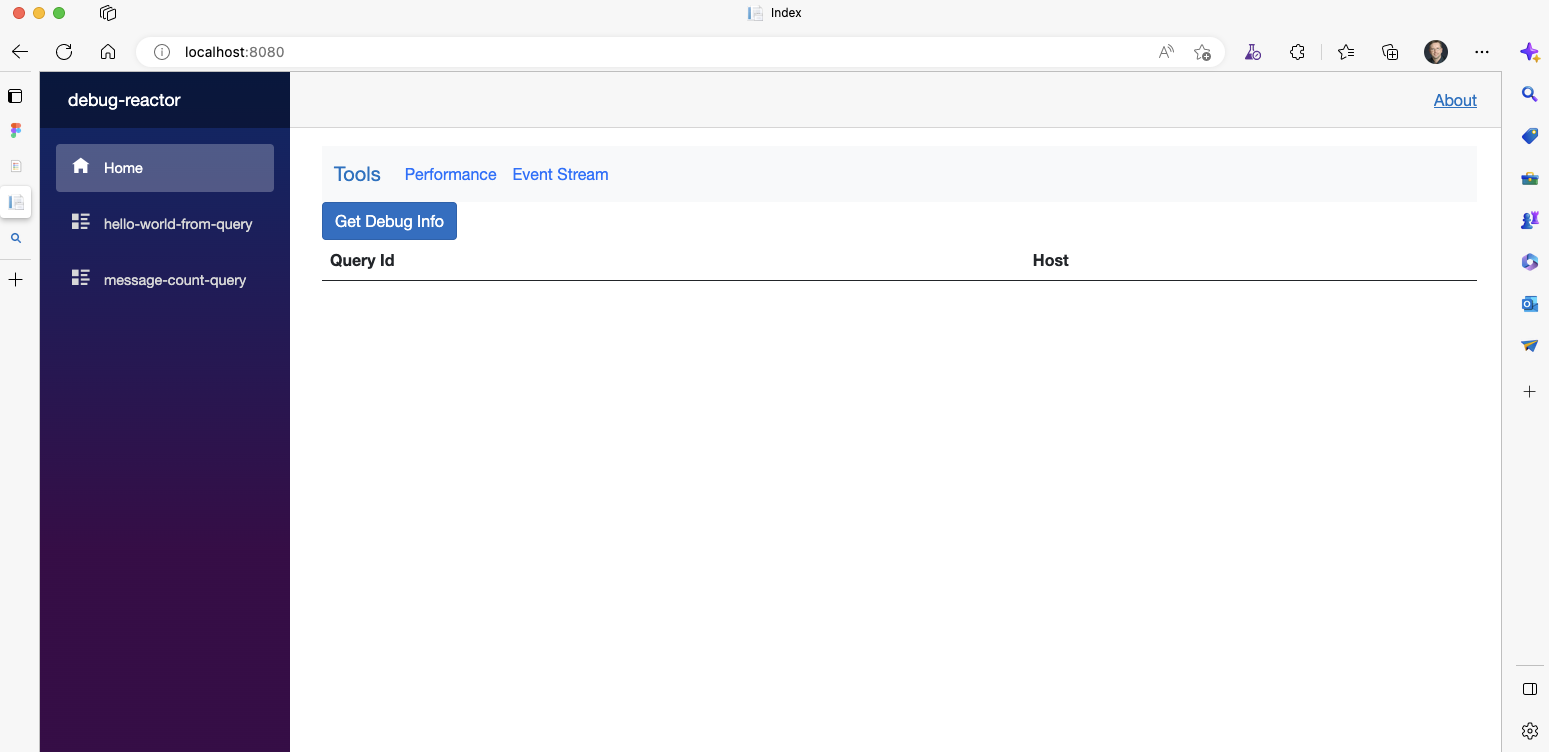
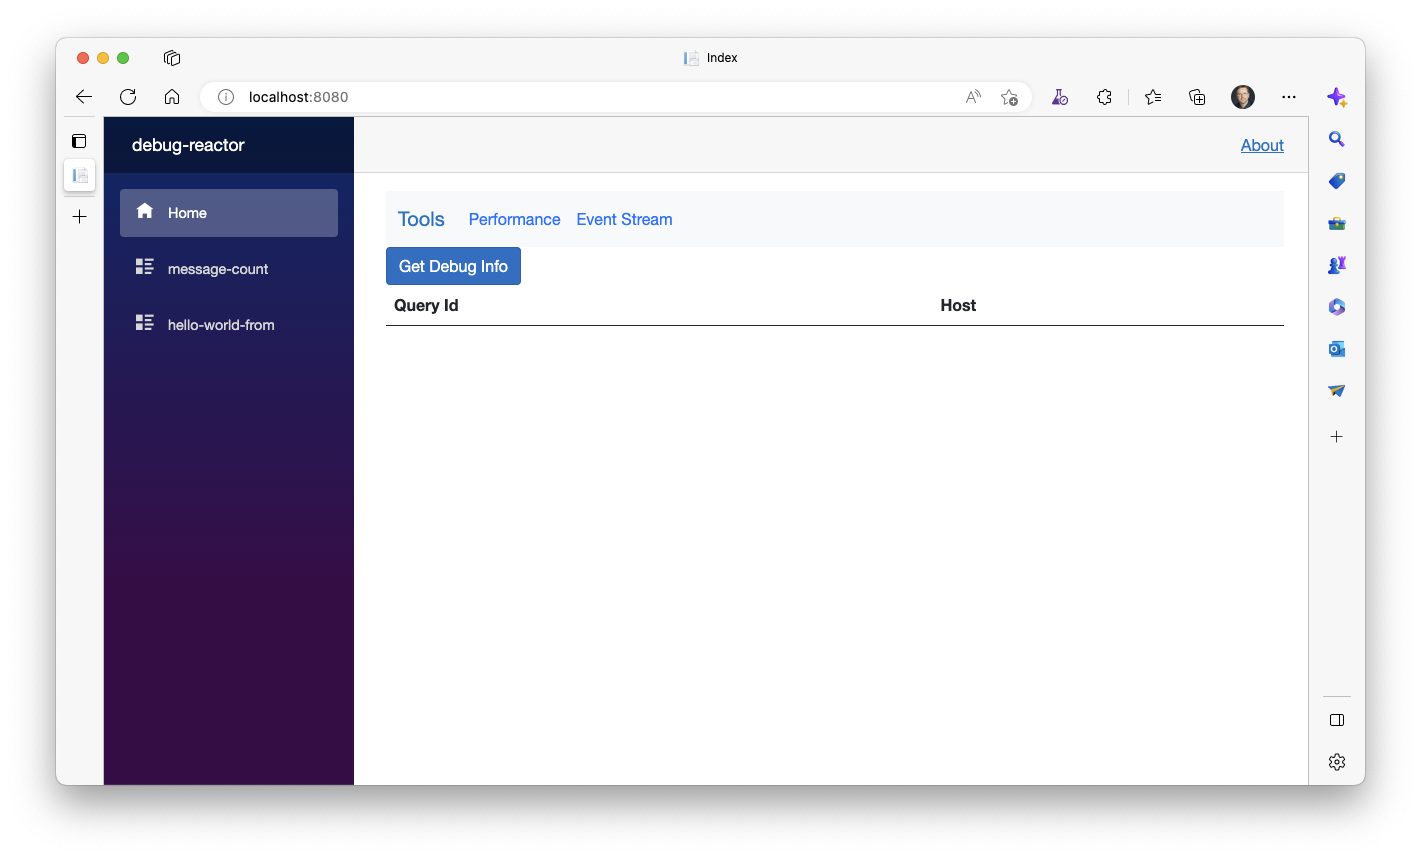
wip - tutorial

diff --git a/docs/content/solution-developer/getting-started/_index.md b/docs/content/solution-developer/getting-started/_index.md
@@ -13,77 +13,77 @@ To use Drasi as part of a solution you must do the following three things:
 1. Define [Continuous Queries](/solution-developer/components/continuous-queries) for each of the queries you want to run across those sources.
 1. Define [Reactions](/solution-developer/components/reactions) to handle the output from each of your Continuous Queries and integrate the results into your broader solution.
 
-The links above take you to sections that provide in-depth discussion of each of the three main Drasi components. But if this is your first exposure to Drasi, the [Tutorial](#tutorial) section below is the best place to start; it provides step-by-step instruction for getting a simple end-to-end Drasi-based solution running. 
+The links above take you to sections that provide in-depth discussion of each of the three main Drasi components and how to configure them. But if this is your first exposure to Drasi, the [Tutorial](#tutorial) section below is the best place to start; it provides step-by-step instruction for getting a simple end-to-end Drasi-based solution running. 
 
 To develop solutions that use Drasi, you will need a Drasi deployment for dev/test. The [Deploying Drasi](/administrator/platform-deployment) section of the [Administration Guides](/administrator) describe how to deploy Drasi, providing a number of options for both local and cloud deployments. 
 
 ## Tutorial: Hello World
 The following is a step-by-step tutorial that will walk you through the creation of a simple Drasi-based solution, basically the *Hello World* of Drasi solutions. 
 
-In this solution, there will be a `Message` table on a PostgreSQL database that contains three fields:
-- a `MessageId` field containing a unique id for each message. 
-- a `From` field containing the name of who the message is from.
-- a `Message` field containing the message.
+### Solution Overview
+In this solution, the source of data (and change) will be a `Message` table on a PostgreSQL database that contains three fields:
 
-For example:
+|Field Name|Type|Allow Nulls|Description|
+|-|-|-|-|
+|MessageId|integer|No|A unique id for each message.|
+|From|character varying(50)|No|The name of who the message is from.|
+|Message|character varying(200)|No|The text of the message.|
+
+We will start with the `Message` table containing the following messages:
 
 |MessageId|From|Message|
 |-|-|-|
 |1|Buzz Lightyear|To infinity and beyond!|
 |2|Brian Kernighan|Hello World|
-|3|Terminator|I'll be back|
+|3|Antoninus|I am Spartacus|
+|4|David|I am Spartacus|
 
 Two Continuous Queries will use the `Message` table as a source of change:
-1. The first will identify when the message "Hello World" is present in the Message table and report who it is from.
-1. The second will maintain the frequency of each unique message in the Message table and output results when the frequencies change.
+1. The first will identify whenever the message "Hello World" is present in the Message table and report who it is from.
+1. The second will calculate frequency of each unique message in the Message table and output results as the frequencies change.
 
-The Debug Reaction, representing a downstream consumer of the Continuous Query results, is used as an easy way to view the results of the Continuous Queries in a Web browser.
+For simplicity, the solution will use the [Debug Reaction](/solution-developer/components/reactions/#debug-reaction) to  represent a downstream consumer of the Continuous Query results. The Debug Reaction provides a Solution Developer with an easy way to view the results of the Continuous Queries in a Web browser.
+
+After describing the prerequisites that must be in place to complete the tutorial, the sections below guide you through the three simple steps common to creating any Drasi-based solution:
+
+1. **Create Sources**. In this case a PostgreSQL Source to provide access to changes in the `Message` table.
+1. **Create Continuous Queries**. In this case there will be two Continuous Queries both using the PostgreSQL Source as their source of change.
+1. **Create Reactions**. In this case the Debug Reaction will handle the output of both Continuous Queries.
 
 When complete, the Hello World solution will have the component architecture shown in this diagram:
 
 {{< figure src="hello-world-solution.png" alt="Hello World Solution" width="70%" >}}
 
-The tutorial steps below explain how to:
-1. Create the PostgreSQL Source.
-1. Create the two Continuous Queries, subscribing to the PostgreSQL Source as their source of change.
-1. Deploy the Debug Reaction that subscribes to the two Continuous Queries and displays their results.
-1. Test the solution by changing the data in the Message table so you can observe the changing Continuous Query results in the Debug Reaction.
-
-Each of these steps is straightforward, requiring no code, only configuration. 
-
 ### Prerequisites
 To complete the tutorial, you will need:
-- Access to a Drasi environment. If you don't have access to a Drasi environment, see the [Deploying Drasi](/administrator/platform-deployment/) section in the [Administrator Guides](/administrator) for instructions.
+- Access to a Drasi environment. If you don't have access to a Drasi environment, see the [Deploying Drasi](/administrator/platform-deployment/) section in the [Administrator Guides](/administrator) for instructions. If you want a quick and easy deployment just for the tutorial, deploy from [Preview Images](/administrator/platform-deployment/from-preview-images/) to a local [Kind](https://kind.sigs.k8s.io/) cluster.
 - A PostgreSQL database to use as a source of change:
   - Version 10 or greater.
-  - Configured to support `LOGICAL` replication.
+  - Configured to support `LOGICAL` replication. See the notes on [configuring PostgreSQL replication](/reference/postgresql-replication) for assistance.
   - A PostgreSQL user that has at least the LOGIN, REPLICATION and CREATE permissions on the database and SELECT permissions on the tables you are interested in.
-- A tool such as [pgAdmin](https://www.pgadmin.org/) with which you can run commands against your PostgreSQL server to create tables and add/update data.
+- A tool such as [pgAdmin](https://www.pgadmin.org/) with which you can run SQL commands against your PostgreSQL server to create tables and add/update/delete data.
 
-If you are using **Azure Database for PostgreSQL**, you can configure the replication to `LOGICAL` from the Azure portal on the **Replication** page, or you can use the CLI as follows:
+### Step 1 - PostgreSQL Source
 
-```azurecli
-az postgres server configuration set --resource-group mygroup --server-name myserver --name azure.replication_support --value logical
-
-az postgres server restart --resource-group mygroup --name myserver
-```
-
-### 1. PostgreSQL Source
-
-#### Create Database Table
+#### Create Database and Table
 On your PostgreSQL server, create a new database named `hello-world`.
 
-Then, create a table named `Message` using the following SQL script.
+Then, create a table named `Message` and add some initial data using the following SQL script:
 
 ```
 CREATE TABLE "Message" (
     "MessageId" integer NOT NULL,
-    "From" character varying(10) NOT NULL,
-    "Message" character varying(100) NOT NULL
+    "From" character varying(50) NOT NULL,
+    "Message" character varying(200) NOT NULL
 );
 
 ALTER TABLE "Message" ADD CONSTRAINT pk_message
   PRIMARY KEY ("MessageId");
+
+INSERT INTO public."Message" VALUES (1, 'Buzz Lightyear', 'To infinity and beyond!');
+INSERT INTO public."Message" VALUES (2, 'Brian Kernighan', 'Hello World');
+INSERT INTO public."Message" VALUES (3, 'Antoninus', 'I am Spartacus');
+INSERT INTO public."Message" VALUES (4, 'David', 'I am Spartacus');
 ```
 
 #### Create a PostgreSQL Source
@@ -101,7 +101,7 @@ stringData:
 apiVersion: query.reactive-graph.io/v1
 kind: Source
 metadata:
-  name: hello-world-source
+  name: hello-world
 spec:
   sourceType: PostgreSQL
   properties: 
@@ -126,8 +126,8 @@ You must replace the values described in this table with values for your Postgre
 
 |Value|Description|
 |-|-|
-|\<db-host-name>|The DNS hostname of the PostgreSQL database.|
-|\<db-port>|The port through which you communicate with the PostgreSQL database. Must be enclosed in quotes.|
+|\<db-host-name>|The DNS host name of the PostgreSQL server.|
+|\<db-port>|The port through which you communicate with the PostgreSQL server. Must be enclosed in quotes.|
 |\<db-user>|The User ID that the Source will use to connect to the PostgreSQL database.|
 |\<password>|The Password for the User ID that the Source will use to connect to the PostgreSQL database.|
 
@@ -139,19 +139,19 @@ kubectl apply -f hello-world-source.yaml
 
 Your PostgreSQL Source is now created and ready to use.
 
-### 2. Create Continuous Queries
-To define your Continuous Queries, create a file named `hello-world-queries.yaml` containing the following Kubernetes resource definitions.
+### Step 2 - Continuous Queries
+To define the two Continuous Queries, create a file named `hello-world-queries.yaml` containing the following Kubernetes resource definitions.
 
 ```
 apiVersion: query.reactive-graph.io/v1
 kind: ContinuousQuery
 metadata:
-  name: hello-world-from-query
+  name: hello-world-from
 spec:
   mode: query
   sources:    
     subscriptions:
-      - id: hello-world-source
+      - id: hello-world
   query: > 
     MATCH 
       (m:Message {Message: 'Hello World'})
@@ -162,12 +162,12 @@ spec:
 apiVersion: query.reactive-graph.io/v1
 kind: ContinuousQuery
 metadata:
-  name: message-count-query
+  name: message-count
 spec:
   mode: query
   sources:    
     subscriptions:
-      - id: hello-world-source
+      - id: hello-world
   query: > 
     MATCH 
       (m:Message)
@@ -176,12 +176,12 @@ spec:
       count(m.Message) AS Frequency
 ```
 
-This table describes the most important configuration settings in this resource definition:
+You don't need to change anything in this file, but this table describes the most important configuration settings in this resource definition:
 |Property|Description|
 |-|-|
-|kind|Specifies that we want to create Continuous Queries|
+|kind|Specifies that the resource is a **Continuous Queries**|
 |metadata.name|Provides the **id** of the Continuous Query. This is used to manage the Continuous Query and in the Reaction configuration below.|
-|spec.source.subscriptions.id| Identifies the Source the Continuous Query will subscribe to. In this instance, this refers to the PostgreSQL Source created in the previous step.|
+|spec.source.subscriptions.id| Identifies the Source the Continuous Query will subscribe to as a source of change data. In this instance, these refer to the PostgreSQL Source created in the previous step.|
 |spec.query|Contains the Cypher Query that defines both which changes the Continuous Query is detecting and the output it should generate.|
 
 Use `kubectl` to deploy the Continuous Queries with the following command:
@@ -190,8 +190,8 @@ Use `kubectl` to deploy the Continuous Queries with the following command:
 kubectl apply -f hello-world-queries.yaml
 ```
 
-### 3. Deploy the Debug Reaction
-In order to view the results of the Continuous Queries you will deploy an instance of the Debug Reaction. The Debug Reaction provides a simple web-based UI that lets you see the current result of a Continuous Query as a table, and to view the query results updating dynamically as the source data changes.
+### Step 3 - Debug Reaction
+In order to view the results of the Continuous Queries you will deploy an instance of the [Debug Reaction](/solution-developer/components/reactions/#debug-reaction). The Debug Reaction provides a simple web-based UI that lets you see the current result of a Continuous Query as a table, and to view the query results updating dynamically as the source data changes.
 
 To define your Debug Reaction, create a file named `hello-world-reaction.yaml` containing the following Kubernetes resource definition.
 
@@ -199,48 +199,93 @@ To define your Debug Reaction, create a file named `hello-world-reaction.yaml` c
 apiVersion: query.reactive-graph.io/v1
 kind: Reaction
 metadata:
-  name: hello-world-debug-reaction
+  name: hello-world-debug
 spec:
   reactionImage: reactive-graph/reaction-debug
   endpoints:
     - name: gateway
       port: 8080
   queries:
-    - queryId: hello-world-from-query
-    - queryId: message-count-query
+    - queryId: hello-world-from
+    - queryId: message-count
 ```
 
-This table describes the most important configuration settings in this resource definition:
+You don't need to change anything in this file, but this table describes the most important configuration settings in this resource definition:
 |Property|Description|
 |-|-|
-|kind|Specifies that we want to create Reaction|
+|kind|Specifies that the resource is a **Reaction**|
 |metadata.name|Provides the **id** of the Reaction.|
 |spec.reactionImage|Identifies the container image to use for the Reaction.|
 |spec.endpoints|Specifies the port name and number through which the Debug reaction Web UI is accessible.|
 |spec.queries|Subscribes this Reaction to the two Continuous Queries created in the previous step.|
 
-Use `kubectl` to deploy the Debug reaction with the following command:
+Use `kubectl` to deploy the Debug Reaction with the following command:
 
 ```
 kubectl apply -f hello-world-reaction.yaml
 ```
 
-In order to access the UI of the debug reaction from a local machine, we must forward the port to a local one using the following command:
+The Hello World Drasi solution is now fully deployed.
+
+### Test the Solution
+In order to access the Web UI of the Debug Reaction from a local machine, we must forward the container port to a local one using the following command:
 
 ```
-kubectl port-forward services/hello-world-debug-reaction-gateway 8080:80 -n default
+kubectl port-forward services/hello-world-debug-gateway 8080:80 -n default
 ```
 
-### 4. Test the Solution
-Now open your browser and navigate to `http://localhost:8080`, where you will see the UI shown here:
+Now open your browser and navigate to **http://localhost:8080**, where you will see the Debug Reaction UI shown here:
 
 {{< figure src="debug-reaction-ui.png" alt="Debug Reaction UI" width="70%" >}}
 
-On the left hand side is a menu containing the two Continuous Queries created earlier. Select `hello-world-from-query`. You will see that the Query Results are initially empty.
+On the left hand side is a menu listing the two Continuous Queries created earlier. Select `hello-world-from` and the right hand pane will show the current results of the `hello-world-from` query. Initially, there is only one result, because only **Brian Kernighan** is associated with the "Hello World" message.
 
-Use a tool such as [pgAdmin](https://www.pgadmin.org/) to add, update, and delete Message records in the Message table. Each time you add the Message "Hello World" it will appear in the query result, and each time you change or delete the message, it will disappear.
+{{< figure src="hello-world-from-debug.png" alt="Hello World From" width="70%" >}}
 
-Switch to the `message-count-query` Continuous Query and you will see a list of the unique messages and the frequency with which they occur in the Message table. As you add, update, and delete messages, the list of messages and frequencies will change.
+If you add another Message to the table using the following SQL insert statement:
+
+```
+INSERT INTO public."Message" VALUES (5, 'Allen', 'Hello World');
+```
+
+You will see a second record for **Allen** appear dynamically in the query result:
+
+{{< figure src="hello-world-from-debug-updated.png" alt="Hello World From Updated" width="70%" >}}
+
+In the list of Continuous Queries select the `message-count` entry and the right hand pane will show the  current results to the `message-count` query. There are three results, as shown below. Note that because of the "Hello World" message you just added for **Allen**, both "Hello World" and "I am Spartacus" have a Frequency of 2.
+
+{{< figure src="message-count-debug.png" alt="Message Count" width="70%" >}}
+
+If you add another Message to the table using the following SQL insert statement:
+
+```
+INSERT INTO public."Message" VALUES (6, 'Allen', 'I am Spartacus');
+```
+
+You will see the "I am Spartacus" Frequency increase dynamically to 3:
+
+{{< figure src="message-count-debug-updated.png" alt="Message Count Updated" width="70%" >}}
+
+Finally, if you delete both "Hello World" messages using the following SQL statement:
+
+```
+DELETE FROM public."Message" WHERE "Message" = 'Hello World';
+```
+
+The Debug Reaction updates to show that there are no messages with the text "Hello World":
+
+{{< figure src="message-count-debug-deleted.png" alt="Message Count" width="70%" >}}
+
+And if you switch back to the `hello-world-from` Continuous Query, the current result is empty as expected:
+
+{{< figure src="hello-world-from-debug-deleted.png" alt="Message Count" width="70%" >}}
+
+### Reflection
+In completing the tutorial, using no custom code and a minimal amount of configuration information, you were able to write queries that automatically detect changes in a database and dynamically distribute a custom representation of those changes to downstream consumers for further processing or integration into a broader solution. Although the data and queries in the tutorial where trivial, the process is exactly the same for richer and more complex scenarios, only the Continuous Query increases in complexity and this depends totally on what you are trying to achieve.
+
+Without Drasi, to achieve what you just did in the tutorial, you would need to write code to process change logs or periodically poll the database for changes. And you would need to implement unique solutions for each type of source. You would also need to maintain your own state to track which data had changed and to calculate the aggregates across the changing data. 
+
+Hopefully, from this simple tutorial you can see the efficiencies and time saving Drasi offers, and the opportunities it presents for improving and simplifying the ability to detect and react to change in dynamic system, and its ability to power solutions that are more dynamic and responsive.
 
 ## Next Steps...
 As with many new technologies, the challenge to getting started with Drasi can be less about how to use it, and more about understanding **why** and **when** to use it. Learning how to use Drasi **most effectively** involves understanding where Drasi replaces and simplifies the way you detect and react to change today, as well as how Drasi enables new ways to think about query-driven solutions that would not be possible today with significant development efforts. 

diff --git a/docs/content/solution-developer/components/sources/_index.md b/docs/content/solution-developer/components/sources/_index.md
@@ -166,33 +166,9 @@ The PostgreSQL Source enables Drasi connectivity to PostgreSQL databases. It use
 
 #### Source Requirements
 
-Your PostgreSQL database must be running at least version 10 and have `LOGICAL` replication enabled. You also need a PostgreSQL user that has at least the LOGIN, REPLICATION and CREATE permissions on the database and SELECT permissions on the tables you are interested in.
+Your PostgreSQL database must be running at least version 10 and have `LOGICAL` replication enabled. See the notes on [configuring PostgreSQL replication](/reference/postgresql-replication) for assistance.
 
-##### Azure Database for PostgreSQL
-
-If you are using Azure Database for PostgreSQL, you can configure the replication to `LOGICAL` from the Azure portal under the `Replication` tab, or you can use the CLI as follows:
-
-```azurecli
-az postgres server configuration set --resource-group mygroup --server-name myserver --name azure.replication_support --value logical
-
-az postgres server restart --resource-group mygroup --name myserver
-```
-
-##### Self Hosted PostgreSQL
-
-First set the configuration options in postgresql.conf:
-
-```
-wal_level = logical
-```
-
-The other required settings have default values that are sufficient for a basic setup.
-
-pg_hba.conf needs to be adjusted to allow replication (the values here depend on your actual network configuration and user you want to use for connecting):
-
-```
-host     all     repuser     0.0.0.0/0     md5
-```
+You also need a PostgreSQL user that has at least the LOGIN, REPLICATION and CREATE permissions on the database and SELECT permissions on the tables you are interested in.
 
 #### Configuration Settings
 The following is an example of a full resource definition for a PostgreSQL Source using Kubernetes Secrets to securely store database credentials:

diff --git a/docs/content/reference/postgresql-replication/_index.md b/docs/content/reference/postgresql-replication/_index.md
@@ -1,0 +1,34 @@
+---
+type: "docs"
+title: "PostgreSQL Replication"
+linkTitle: "PostgreSQL Replication"
+weight: 50
+description: >
+    Configuring Replication on PostgreSQL
+---
+
+For PostgreSQL to generate the change feed that Drasi needs, you must configure a PostgreSQL database for replication. The following sections describe how to do this for PostgreSQL in a number of hosting environments.
+
+## Self Hosted PostgreSQL
+First set the configuration options in postgresql.conf:
+
+```
+wal_level = logical
+```
+
+The other required settings have default values that are sufficient for a basic setup.
+
+pg_hba.conf needs to be adjusted to allow replication (the values here depend on your actual network configuration and user you want to use for connecting):
+
+```
+host     all     repuser     0.0.0.0/0     md5
+```
+
+## Azure Database for PostgreSQL
+If you are using **Azure Database for PostgreSQL**, you can configure the replication to `LOGICAL` from the Azure portal on the **Replication** page, or you can use the CLI as follows:
+
+```azurecli
+az postgres server configuration set --resource-group mygroup --server-name myserver --name azure.replication_support --value logical
+
+az postgres server restart --resource-group mygroup --name myserver
+```
